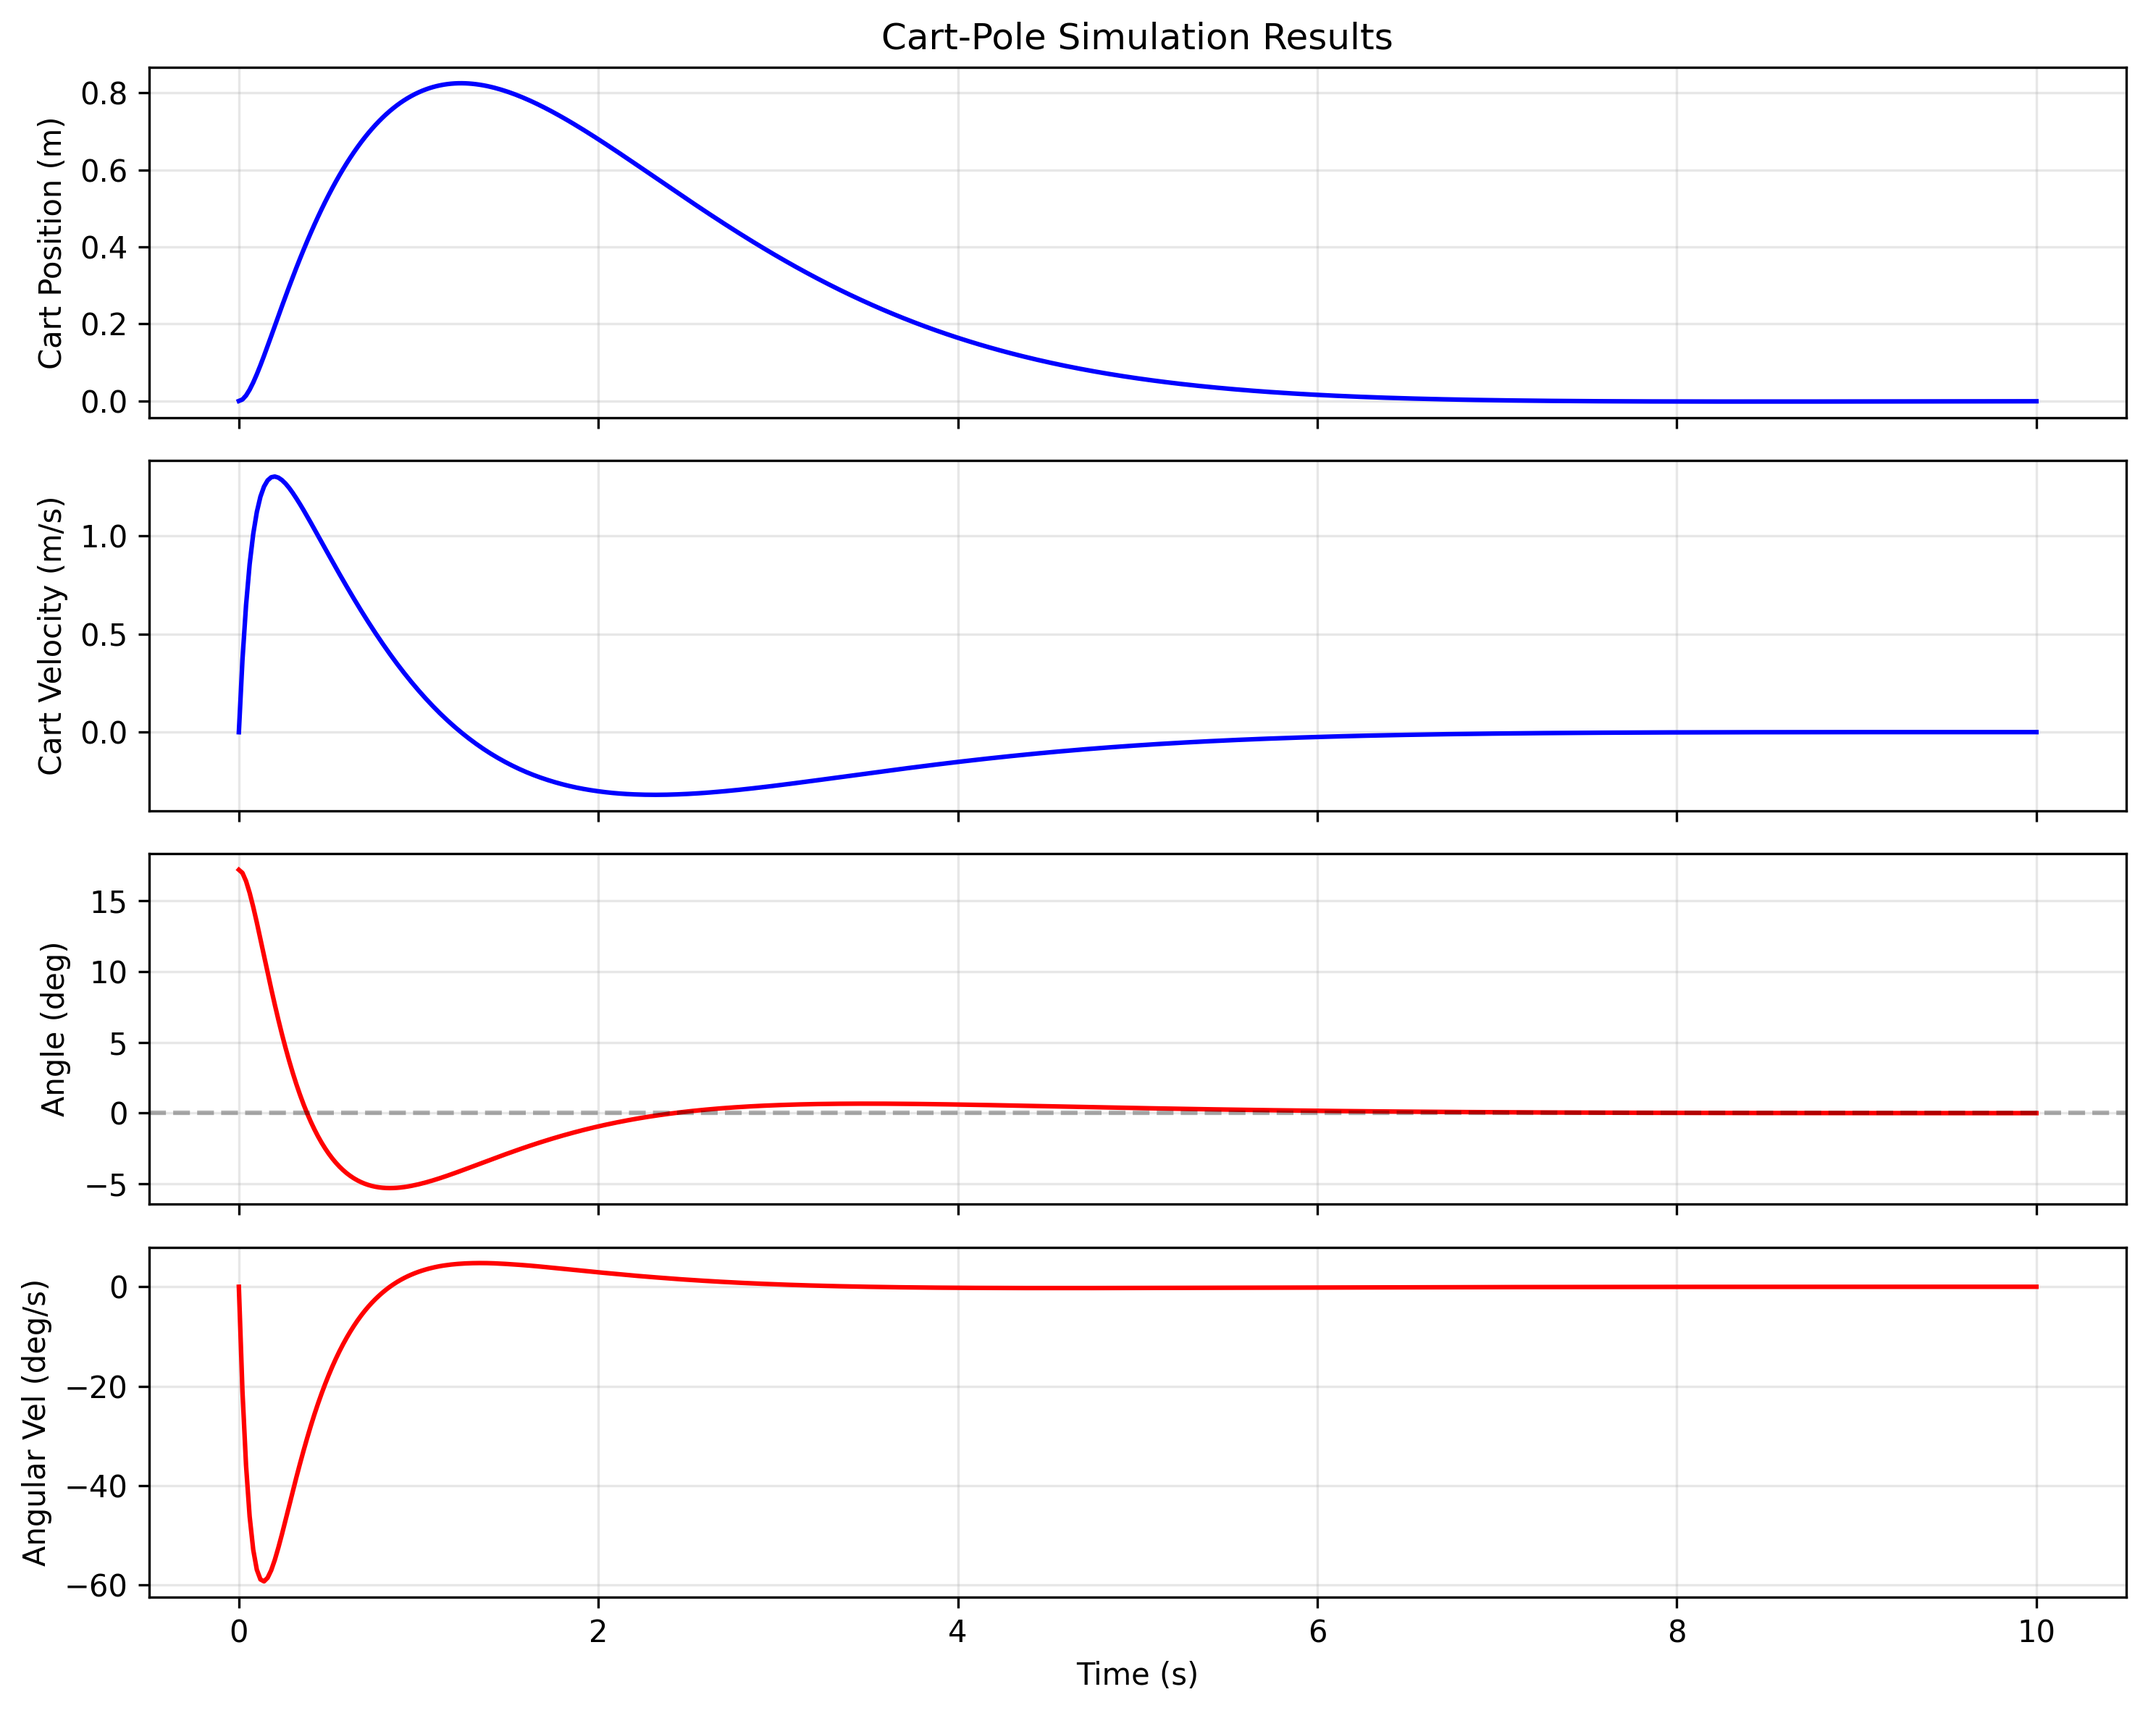
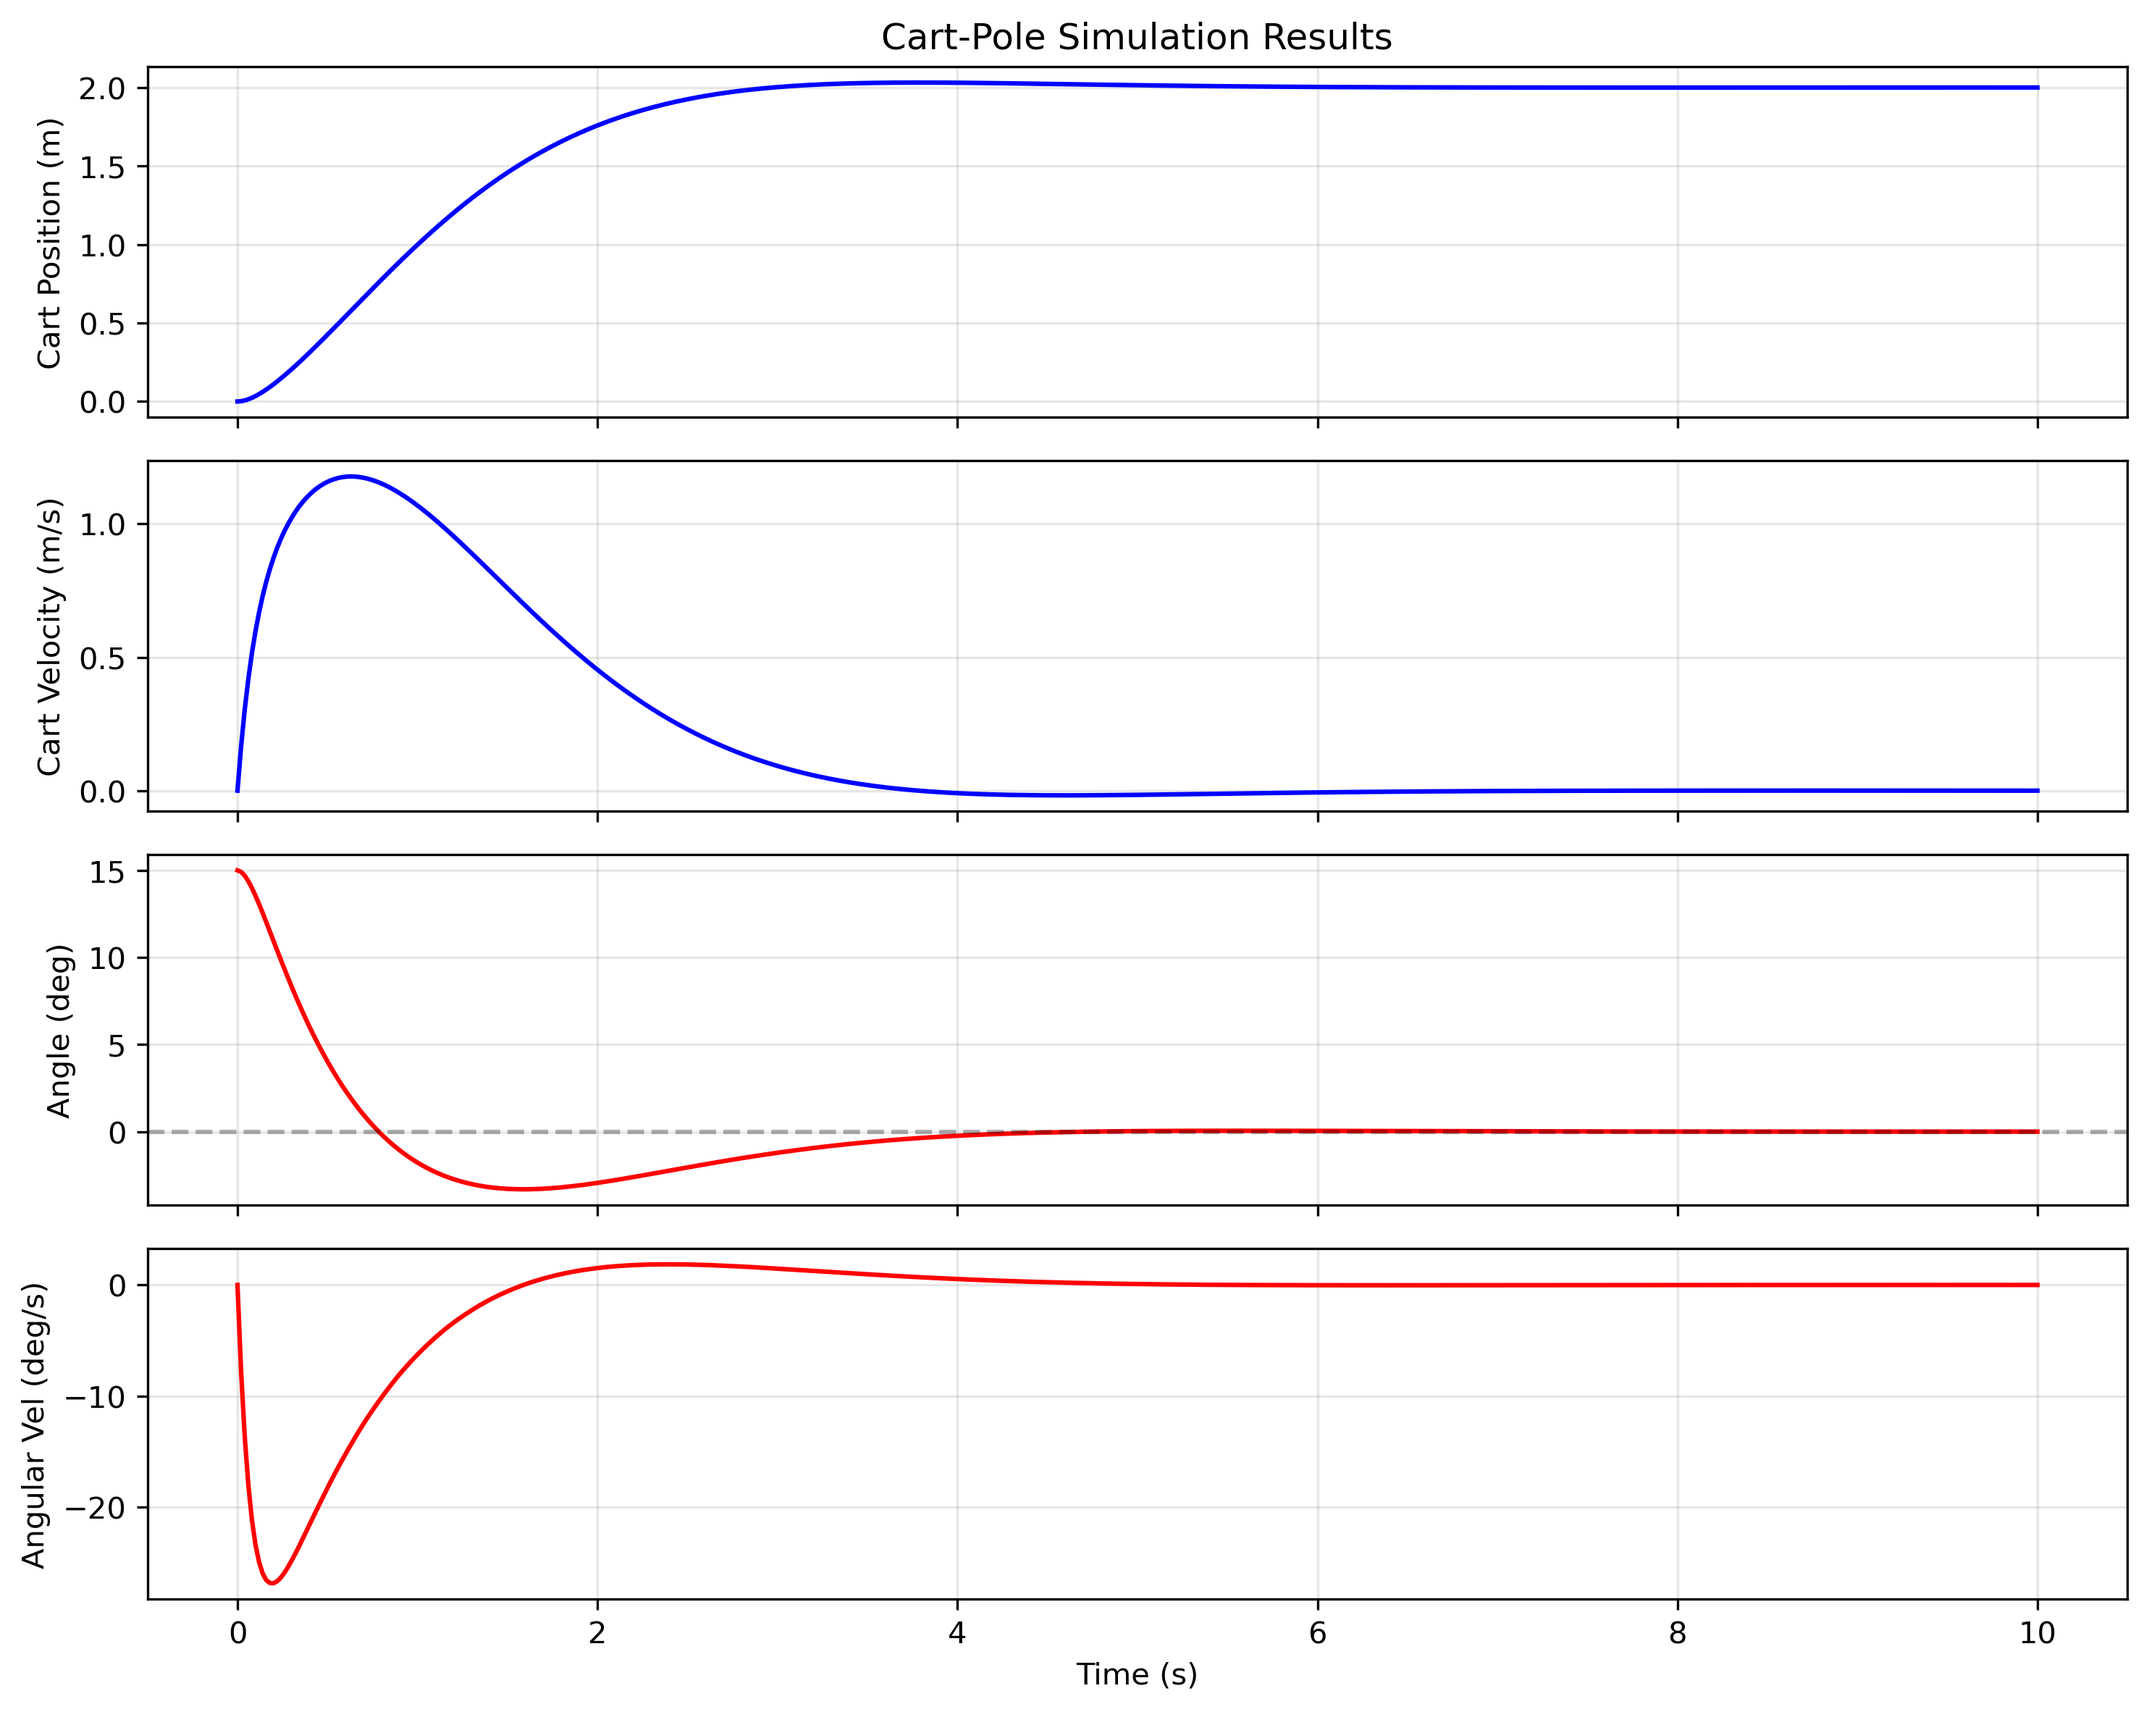
Tuned LQR

diff --git a/src/controller.py b/src/controller.py
@@ -115,7 +115,8 @@ class LQRController:
         rotational_damping: float,
         gravity: float,
         Q: np.ndarray = None,
-        R: np.ndarray = None
+        R: np.ndarray = None,
+        setpoint: np.ndarray = None
     ):
         """
         Initialize the LQR controller.
@@ -129,6 +130,7 @@ class LQRController:
             gravity: Gravitational acceleration (m/s^2)
             Q: State cost matrix (4x4), default: diagonal [1, 1, 10, 1]
             R: Control cost matrix (1x1), default: [[0.1]]
+            setpoint: Desired state [x_desired, 0, 0, 0], default: [0, 0, 0, 0]
         """
         self.M = cart_mass
         self.m = pendulum_mass
@@ -148,6 +150,10 @@ class LQRController:
         
         self.Q = Q
         self.R = R
+        # Desired state setpoint: [x_desired, 0, 0, 0]
+        if setpoint is None:
+            setpoint = np.array([0.0, 0.0, 0.0, 0.0])
+        self.setpoint = np.array(setpoint, dtype=float)
         
         # Compute linearized system matrices
         self.A, self.B = self._linearize_system()
@@ -208,18 +214,21 @@ class LQRController:
     
     def compute(self, state: np.ndarray, t: float) -> float:
         """
-        Compute the control force using LQR full state feedback.
+        Compute the control force using LQR full state feedback with setpoint tracking.
         
         Args:
-            state: State vector [x, x_dot, theta, theta_dot]
+            state: Current state vector [x, x_dot, theta, theta_dot]
             t: Current time (s) - not used but kept for interface consistency
             
         Returns:
             Control force (N)
         """
-        # LQR control law: u = -K * x
-        # The negative sign is because we want to drive the state to zero
-        force = -float(self.K @ state.reshape(-1, 1))
+        # LQR control law: u = -K * (x - x_setpoint)
+        # Compute error from setpoint
+        error = state - self.setpoint
+        
+        # Apply LQR feedback on the error
+        force = -float(self.K @ error.reshape(-1, 1))
         
         # Apply force limits
         max_force = 100.0

diff --git a/src/main_lqr.py b/src/main_lqr.py
@@ -28,8 +28,13 @@ def main():
     simulator = Simulator(cart_pole)
     
     # Create LQR controller with custom cost matrices
-    Q = np.diag([1.0, 1.0, 100.0, 10.0])  # State cost: [x, x_dot, theta, theta_dot]
+    # Q matrix: penalize deviations in [x, x_dot, theta, theta_dot]
+    # Higher weights = stronger control on that state
+    Q = np.diag([3.0, 0.5, 100.0, 10.0])  # Penalize cart position, angle most critical
     R = np.array([[0.1]])  # Control effort cost
+    
+    # Define desired setpoint: cart at x=2.0m, pendulum balanced
+    setpoint = np.array([2.0, 0.0, 0.0, 0.0])  # [x_desired, x_dot_desired, theta_desired, theta_dot_desired]
     
     controller = LQRController(
         cart_mass=cart_pole.M,
@@ -39,10 +44,11 @@ def main():
         rotational_damping=cart_pole.c,
         gravity=cart_pole.g,
         Q=Q,
-        R=R
+        R=R,
+        setpoint=setpoint
     )
     
-    # Print LQR gains
+    # Print LQR gains and setpoint
     gains = controller.get_gains()
     print("LQR Gains:")
     print(f"  K_x         = {gains['k_x']:.4f}")
@@ -50,17 +56,19 @@ def main():
     print(f"  K_theta     = {gains['k_theta']:.4f}")
     print(f"  K_theta_dot = {gains['k_theta_dot']:.4f}")
     print()
+    print(f"Setpoint: {setpoint}")
     
     # Define initial conditions
     # Starting with a moderate angle offset to test controller
     initial_state = np.array([
         0.0,    # x: cart position (m)
         0.0,    # x_dot: cart velocity (m/s)
-        0.3,    # theta: pendulum angle (rad) - about 17 degrees
+        np.deg2rad(15.0),    # theta: pendulum angle (rad) - about 15 degrees
         0.0     # theta_dot: angular velocity (rad/s)
     ])
     
     print(f"Initial angle: {np.rad2deg(initial_state[2]):.1f} degrees")
+    print(f"Initial position: {initial_state[0]:.2f} meters")
     
     # Run controlled simulation
     print("Running LQR-controlled simulation...")
